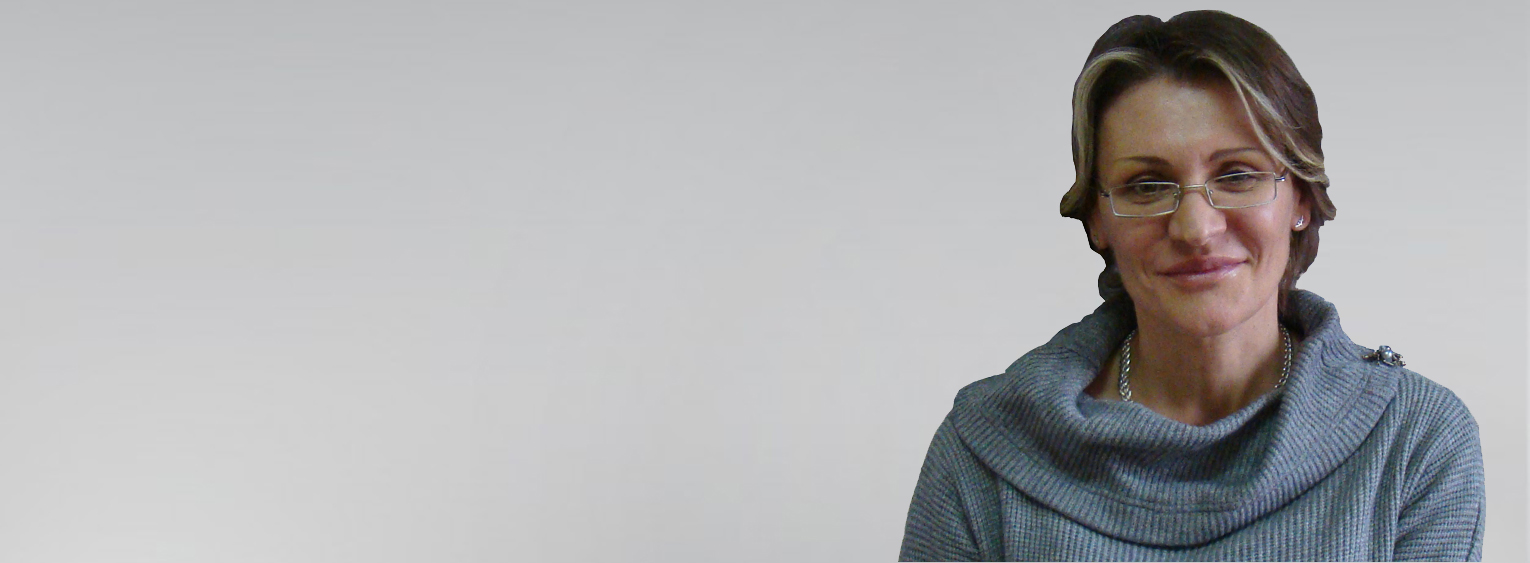
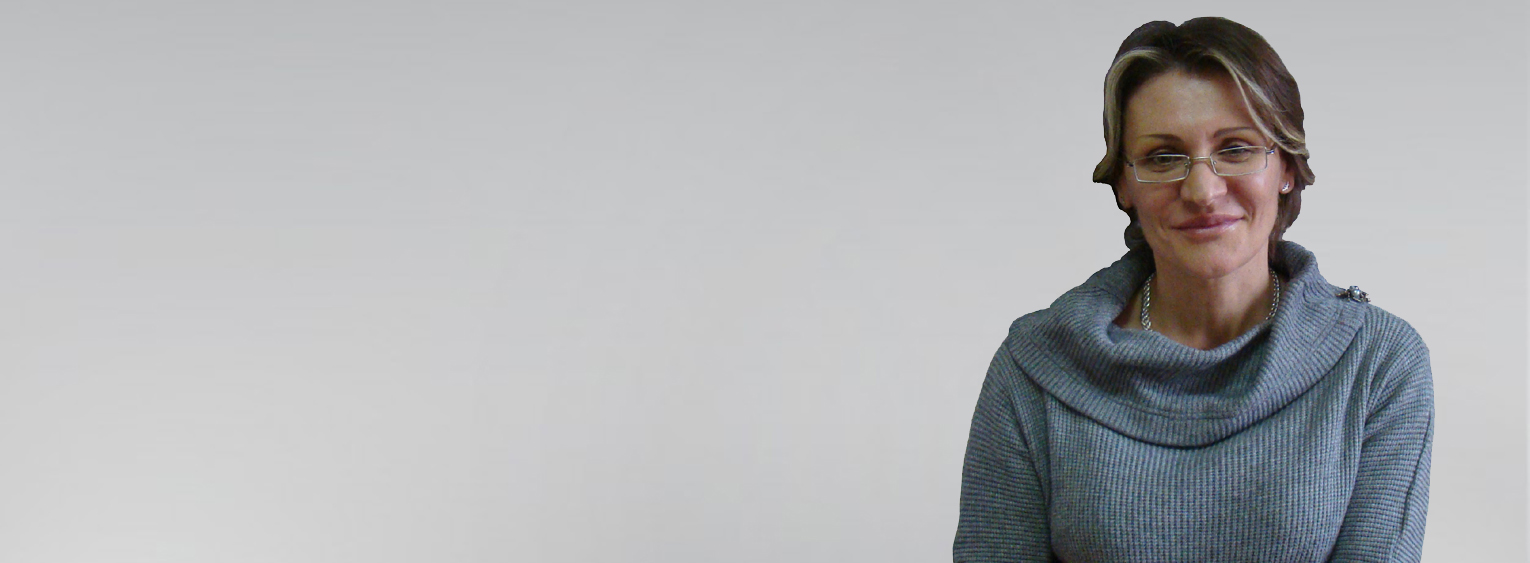
Work with photo and text in "Index" page.

Changed region(s): [[0.5837, 0.0, 0.983, 1.0]]

diff --git a/web/css/index.css b/web/css/index.css
@@ -16,7 +16,10 @@
     margin-top: 100px;
 
 
-    font-family: 'Calibri', serif;
+    /*font-family: 'Calibri', serif;*/
+    font-family: 'Great Vibes', cursive;
+
+
     font-size: 2.99em;
     /*color: #9b8b82!important;*/
     font-weight: bold;
@@ -29,12 +32,13 @@
 .card-titleH2{
     color: white!important;
     text-align: center;
-    margin-top: 0;
+    /*margin-top: 0;*/
+    margin: 10px 0 15px;
+    /*font-family: 'Caveat', cursive;*/
+    font-size: x-large;
 
-
-    /*font-family: 'Charmonman-Regular', serif;*/
-    font-family: 'Caveat', cursive;
-    font-size: xx-large;
+    font-style: italic;
+    font-family: 'Great Vibes', cursive;
 
 
     /*text-align: center;*/
@@ -94,12 +98,17 @@
     text-align: justify;
     padding-left: 20px;
     text-indent: 20px;
-    font-family: 'Yellowtail', cursive;
+
+    /*font-family: 'Yellowtail', cursive;*/
+    /*font-family: 'Dancing Script', cursive;*/
+    font-family: 'Great Vibes', cursive;
+    font-style: italic;
+
 }
 
 @media (max-width: 1400px) {
     .card-titleH1{
-        margin-top: 50px;
+        margin-top: 80px;
     }
 }
 
@@ -111,7 +120,8 @@
 
 @media (max-width: 1100px) {
     .card-titleH1{
-        margin-top: 0;
+        margin: 0;
+        font-size: xx-large;
     }
 
     .siteSlogan{
@@ -119,11 +129,15 @@
     }
 }
 
-@media (max-width: 1000px) {
+@media (max-width: 1010px) {
     .card-titleH1{
         margin-top: 20px!important;
         margin-bottom: 0!important;
         font-size: xx-large;
+    }
+
+    .card-titleH2 {
+        margin: 0 0 10px!important;
     }
 
     .siteSlogan{
@@ -133,11 +147,12 @@
 
 @media (max-width: 900px) {
     .card-titleH1{
+        font-size: x-large;
         margin-top: 0!important;
     }
 
     .card-titleH2 {
-        font-size: x-large;
+        font-size: large;
     }
 
     .pIndexSecondParagraph{
@@ -146,16 +161,9 @@
 }
 
 @media (max-width: 800px) {
-    /*.card-img{*/
-        /*display: none;*/
-    /*}*/
-    /*.fonPhoto{*/
-    /*    display: none;*/
-    /*}*/
-
     .card-titleH1{
         font-size: x-large;
-        margin-top: 0!important;
+        margin-top: 20px!important;
     }
 
     .card-titleH2{
@@ -171,7 +179,17 @@
     }
 }
 
-@media (max-width: 720px) {
+@media (max-width: 750px) {
+    .card-titleH1 {
+        margin-top: 10px!important;
+    }
+}
+
+@media (max-width: 715px) {
+    .card-titleH1 {
+        margin-top: 0!important;
+    }
+
     .indexBtn{
         width: 60%;
         font-size: larger;
@@ -208,8 +226,13 @@
 
 @media (max-width: 600px) {
     .card-titleH1 {
-        font-size: medium;
+        font-size: large;
     }
+
+    .card-titleH2{
+        margin-bottom: 0!important;
+    }
+
         .siteSlogan{
             font-size: x-small;
         }
@@ -221,8 +244,12 @@
     }
 
     .card-titleH1 {
-        font-size: large;
+        font-size: x-large;
         margin-top: 50px!important;
+    }
+
+    .card-titleH2{
+        margin-top: 5px!important;
     }
 }
 

diff --git a/views/site/index.php b/views/site/index.php
@@ -21,7 +21,7 @@ use yii\helpers\Html; ?>
                     <h1 class="card-titleH1">Джулай Надежда Мироновна</h1>
                     <h2 class="card-titleH2">Психиатр, психотерапевт</h2>
                     <div class="siteSlogan">
-                        <p class="pIndexFirstParagraph">" Я – врач-психотерапевт. Моя профессия – не только лечить болезни, но и помогать людям
+                        <p class="pIndexFirstParagraph">"Я – врач-психотерапевт. Моя профессия – не только лечить болезни, но и помогать людям
                         понимать причины своих поступков и чувств, находить ошибочные привычные стили поведения,
                         несущие в жизнь деструкцию; лучше узнавать себя. А также – справляться со своими страхами и
                             тревогами, учиться быть в гармонии с собой, учиться быть по-настоящему счастливыми.

diff --git a/views/layouts/main.php b/views/layouts/main.php
@@ -43,7 +43,9 @@ AppAsset::register($this);
         <link href="https://fonts.googleapis.com/css2?family=Caveat:wght@700&display=swap" rel="stylesheet">
 
 <!--        <link rel="preconnect" href="https://fonts.gstatic.com">-->
-        <link href="https://fonts.googleapis.com/css2?family=Yellowtail&display=swap" rel="stylesheet">
+<!--        <link href="https://fonts.googleapis.com/css2?family=Yellowtail&display=swap" rel="stylesheet">-->
+<!--        <link href="https://fonts.googleapis.com/css2?family=Dancing+Script&display=swap" rel="stylesheet">-->
+        <link href="https://fonts.googleapis.com/css2?family=Dancing+Script&family=Great+Vibes&family=Satisfy&display=swap" rel="stylesheet">
 
 
 
